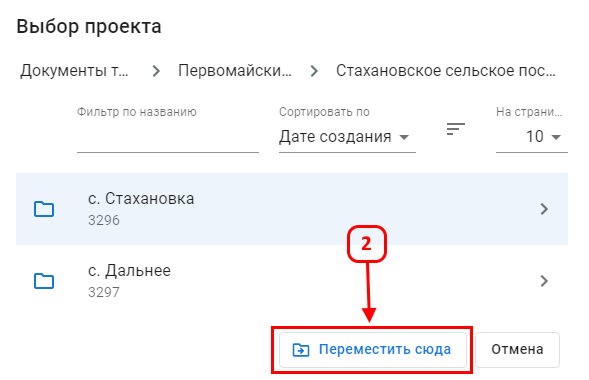
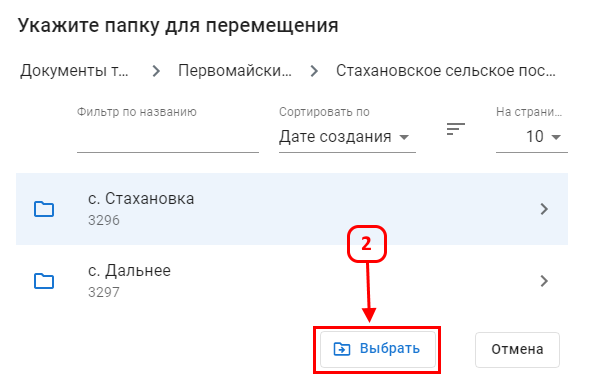
Merged PR 1250: feat (ui: explorer): doc move v2
Related work items: #5370, #5388

Changed region(s): [[0.4584, 0.8395, 0.8251, 0.9842], [0.0306, 0.0289, 0.5806, 0.0868]]

diff --git a/portal-ui/src/app/components/LibraryDocumentActions/Move/LibraryDocumentActions-Move.tsx b/portal-ui/src/app/components/LibraryDocumentActions/Move/LibraryDocumentActions-Move.tsx
@@ -18,10 +18,11 @@ import {
   moveLibraryRecord
 } from '../../../services/data/doc-library.service';
 import { emptyItem, ExplorerItemData, ExplorerItemType } from '../../Explorer/Explorer.models';
-import { isLibraryUpdateAllowed, isRecordUpdateAllowed } from '../../../services/data/permissions.service';
+import { isRecordUpdateAllowed } from '../../../services/data/permissions.service';
+import { DialogActionsRight } from '../../DialogActionsRight/DialogActionsRight';
 import { Button } from '../../Button/Button';
 
-const cnLibraryDocumentActionsFilesPlacement = cn('LibraryDocumentActions', 'FilesPlacement');
+const cnLibraryDocumentActionsMove = cn('LibraryDocumentActions', 'Move');
 
 interface LibraryDocumentActionsFilesPlacementProps {
   document: LibraryRecord;
@@ -32,9 +33,9 @@ interface LibraryDocumentActionsFilesPlacementProps {
 @observer
 export class LibraryDocumentActionsMove extends Component<LibraryDocumentActionsFilesPlacementProps> {
   @observable private documentMoveDialogOpen = false;
-  @observable private disabled = false;
+  @observable private disabled = true;
   @observable private currentLibrary?: DocumentLibrary;
-  @observable private openedFolder?: LibraryRecord;
+  @observable private selectedFolder?: LibraryRecord;
 
   constructor(props: LibraryDocumentActionsFilesPlacementProps) {
     super(props);
@@ -43,7 +44,6 @@ export class LibraryDocumentActionsMove extends Component<LibraryDocumentActions
 
   async componentDidMount(): Promise<void> {
     const library = await getLibrary(this.props.document?.libraryId);
-    this.setDisabled(!(await isLibraryUpdateAllowed(library)));
     this.setCurrentLibrary(library);
   }
 
@@ -52,7 +52,7 @@ export class LibraryDocumentActionsMove extends Component<LibraryDocumentActions
 
     const moveButton = (
       <Button
-        children='Переместить сюда'
+        children='Выбрать'
         onClick={this.submitFolderSelection}
         color='primary'
         startIcon={<DriveFileMoveOutlined />}
@@ -63,37 +63,41 @@ export class LibraryDocumentActionsMove extends Component<LibraryDocumentActions
     return (
       <>
         <ActionsItem
-          className={cnLibraryDocumentActionsFilesPlacement()}
           title='Переместить'
+          className={cnLibraryDocumentActionsMove()}
           icon={this.documentMoveDialogOpen ? <DriveFileMove /> : <DriveFileMoveOutlined />}
           onClick={this.openDocumentMoveDialog}
           as={as}
         />
 
         <Dialog open={this.documentMoveDialogOpen} onClose={this.closeDocumentMoveDialog}>
-          <DialogTitle>Выбор проекта</DialogTitle>
-          <DialogContent>
+          <DialogTitle>Укажите папку для перемещения</DialogTitle>
+          <DialogContent className='scroll'>
             <RegistryConsumer id='common'>
               {({ Explorer }: CommonDiRegistry) => (
                 <Explorer
                   id='DocumentMove'
-                  className={cnLibraryDocumentActionsFilesPlacement('Explorer')}
                   path={this.path}
-                  onOpen={this.handleOpen}
+                  onSelect={this.handleSelect}
                   disabledTester={this.testForDisabled}
+                  customFilters={{
+                    [ExplorerItemType.LIBRARY]: { is_folder: { $in: [true] } }
+                  }}
                 />
               )}
             </RegistryConsumer>
           </DialogContent>
           <DialogActions>
-            {this.disabled ? (
-              <Tooltip title='Недостаточно прав для перемещения'>
-                <span>{moveButton}</span>
-              </Tooltip>
-            ) : (
-              moveButton
-            )}
-            <Button onClick={this.closeDocumentMoveDialog}>Отмена</Button>
+            <DialogActionsRight>
+              {this.disabled ? (
+                <Tooltip title={this.selectedFolder?.id ? 'Недостаточно прав для перемещения' : ''}>
+                  <span>{moveButton}</span>
+                </Tooltip>
+              ) : (
+                moveButton
+              )}
+              <Button onClick={this.closeDocumentMoveDialog}>Отмена</Button>
+            </DialogActionsRight>
           </DialogActions>
         </Dialog>
       </>
@@ -106,18 +110,20 @@ export class LibraryDocumentActionsMove extends Component<LibraryDocumentActions
   }
 
   @boundMethod
-  private async handleOpen(item: ExplorerItemData<LibraryRecord>) {
-    this.setOpenedFolder(item.payload);
-    this.setDisabled(!(await isLibraryUpdateAllowed(this.currentLibrary)));
+  private async handleSelect(item: ExplorerItemData<LibraryRecord>) {
+    this.setSelectedFolder(item.payload);
+    if (this.selectedFolder?.is_folder) {
+      this.setDisabled(!(await isRecordUpdateAllowed(this.selectedFolder)));
+    }
 
-    if (this.openedFolder?.is_folder) {
-      this.setDisabled(!(await isRecordUpdateAllowed(this.openedFolder)));
+    if (!this.selectedFolder?.is_folder && !this.selectedFolder.loading) {
+      this.setDisabled(true);
     }
   }
 
   @boundMethod
   private async submitFolderSelection() {
-    await moveLibraryRecord(this.props.document, this.openedFolder?.is_folder ? this.openedFolder.id : null);
+    await moveLibraryRecord(this.props.document, this.selectedFolder?.is_folder ? this.selectedFolder.id : null);
 
     this.closeDocumentMoveDialog();
   }
@@ -138,8 +144,8 @@ export class LibraryDocumentActionsMove extends Component<LibraryDocumentActions
   }
 
   @action.bound
-  private setOpenedFolder(openedFolder: LibraryRecord) {
-    this.openedFolder = openedFolder;
+  private setSelectedFolder(selectedFolder: LibraryRecord) {
+    this.selectedFolder = selectedFolder;
   }
 
   @action.bound

diff --git a/portal-ui/src/assets/help/map/dataManagement/13moveDocument.html b/portal-ui/src/assets/help/map/dataManagement/13moveDocument.html
@@ -7,9 +7,9 @@
 </p>
 <center><img src="13moveDocument_1.png" alt=""></center>
 <p>
-  После нажатия ЛКМ по (1) в окне выбора перейдите в папку в которую необходимо переместить документ
+  После нажатия ЛКМ по (1) в окне выделите папку в которую необходимо переместить документ
 </p>
 <center><img src="13moveDocument_2.png" alt=""></center>
 <p>
-  После нажать ЛКМ (2) документ будет перенесен в открытый каталог
+  После нажать ЛКМ (2) документ будет перенесен в выделенный каталог
 </p>

diff --git a/portal-ui/src/app/components/Explorer/Item/Explorer-Item.scss b/portal-ui/src/app/components/Explorer/Item/Explorer-Item.scss
@@ -1,3 +1,7 @@
-body .Explorer-Item {
+body .Explorer-Item.Explorer-Item {
   padding-right: 40px;
+
+  &_selected {
+    background-color: rgb(25 118 210 / 13%);
+  }
 }
